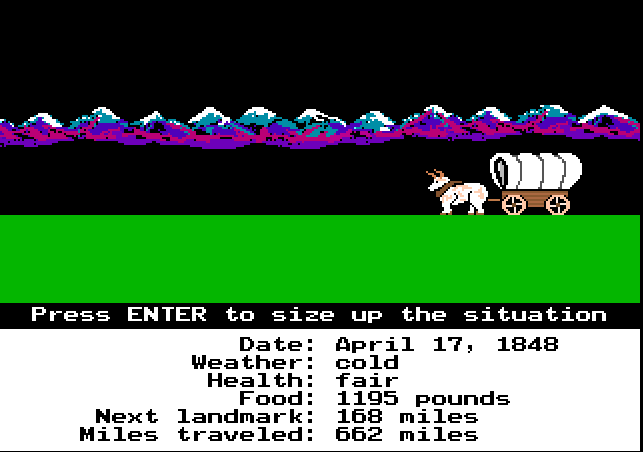
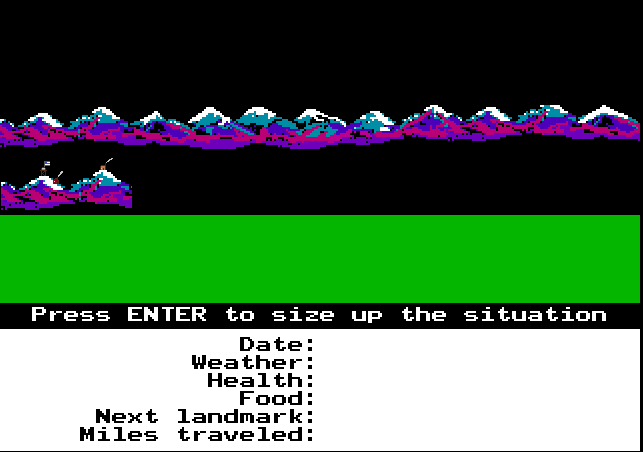
added variarbles for status

diff --git a/p5/OregonTrail.js b/p5/OregonTrail.js
@@ -5,6 +5,12 @@
 let state;
 let food;
 let clothes;
+let wagon;
+let nxtlndmrk;
+let weather;
+let health;
+let totalmiles;
+let date;
 
 
 let music,music1,music2,music3;
@@ -18,7 +24,7 @@ let img4,img5,img6,img7;
 let img8,img9,img10,img11;
 let img12,img13,img14,img15;
 let img16,img17,img18,imgmap;
-let imgwagon;
+let imgwagon,imgwin,imgloose;
 
 let imgop1,imgop2,imgop3,imgop4,imgop5;
 let imgop6,imgop7,imgop8,imgop9,imgop10;
@@ -70,6 +76,8 @@ function preload(){
   img18 = loadImage("assets/Willamette-Valley.PNG");
   imgmap = loadImage("assets/map.png");
   imgwagon = loadImage("assets/wagon.PNG");
+  imgwin = loadImage("assets/youwin.png");
+  imgloose = loadImage("assets/youlose.png");
   ////////////////////////////////////////////////////////////////////////
   /// open world events and locations
   imgop1 = loadImage("assets/openworldfort.PNG");
@@ -93,9 +101,13 @@ function preload(){
 function setup() {
   createCanvas(1600, 780);
   state =1;
-
-  music.setVolume(0.7);
-  music.loop();
+  if(state ===1){
+    music.setVolume(0.7);
+    music.loop();
+  }
+  if(state !==1){
+    music.stop();
+  }
 }
 ///////////////////////////////////////////
 
@@ -103,6 +115,12 @@ function setup() {
 ///////////////////////////////////////////////
 function draw() {
   stateis();
+  nxtlndmrk = 125;
+  health =100;
+  food =2000;
+  totalmiles=4;
+  weather=5;
+  date=text(0,10,1834);
 }
 ///////////////////////////////////////////////
 
@@ -122,7 +140,7 @@ function mainmenu(){
   fill(0);
   textStyle(ITALIC);
   textSize(20);
-  text("Travle The Trail",1220, 715);
+  text("Travel The Trail",1220, 715);
 /////////////////////////////////////////////////////////
 }
 ////////////////////////////////////////////////////////
@@ -135,6 +153,37 @@ function gametime(){
 
 function trailtoriv(){
   image(imgop5,0,0,windowWidth,windowHeight);
+
+  fill(0);
+  rect(850, 690, 126, 20);
+  fill(255);
+  text(nxtlndmrk, 893, 690, 276, 20);
+
+  fill(0);
+  rect(850, 660, 126, 20);
+  fill(255);
+  text(food, 893, 660, 276, 20);
+
+  fill(0);
+  rect(850, 632, 126, 20);
+  fill(255);
+  text(health, 893, 632, 276, 20);
+
+  fill(0);
+  rect(850, 720, 126, 20);
+  fill(255);
+  text(totalmiles, 893, 720, 276, 20);
+
+  fill(0);
+  rect(850, 600, 126, 20);
+  fill(255);
+  text(weather, 893, 600, 276, 20);
+
+  fill(0);
+  rect(850, 570, 126, 20);
+  fill(255);
+  text(date, 893, 570, 276, 20);
+
 }
 function river1(){
   image(img2,0,0,windowWidth,windowHeight);
@@ -163,7 +212,7 @@ function chimtofrtlarm(){
 function fortlarm(){
   image(img6,0,0,windowWidth,windowHeight);
 }
-function fortlarmtoindirock(){
+function fortlarmtoindiroc(){
   image(imgop7,0,0,windowWidth,windowHeight);
 }
 function indirock(){
@@ -206,25 +255,25 @@ function ftboise(){
   image(img13,0,0,windowWidth,windowHeight);
 }
 function ftboisetobluemnt(){
-  image;
+  image(imgop3,0,0,windowWidth,windowHeight);
 }
 function bluemnt(){
   image(img14,0,0,windowWidth,windowHeight);
 }
 function bluemnttodales(){
-  image;
+  image(imgop1,0,0,windowWidth,windowHeight);
 }
 function thedalles(){
   image(img15,0,0,windowWidth,windowHeight);
 }
 function dallestowillamentvly(){
-  image;
+  image(imgop3,0,0,windowWidth,windowHeight);
 }
 function Willamettevalley(){
   image(img16,0,0,windowWidth,windowHeight);
 }
 function youwin(){
-  image;
+  image(img);
 }
 function youlose(){
   image;
@@ -241,9 +290,11 @@ function youlose(){
 
 function mousePressed() {
   //console.log(mouseX, mouseY);
-  if (mouseX <= 1157+276 && mouseX >= 1157 && mouseY <= 695+27 && mouseY >= 695){
-    state = 2;
-    music.stop;
+  if (state ===1){
+    if (mouseX <= 1157+276 && mouseX >= 1157 && mouseY <= 695+27 && mouseY >= 695){
+      state = 2;
+      music.stop;
+    }
   }
 }
 ///////////////////////////////////////////////////////
@@ -287,8 +338,68 @@ function stateis(){
   if (state === 7){
     fortlarm();
   }
-  if (state === 7){
-    fortlarmtoindirock();
+  if (state === 7.5){
+    fortlarmtoindiroc();
+  }
+  if (state === 8){
+    indirock();
+  }
+  if (state === 8.5){
+    indirocktosouthpass();
+  }
+  if (state === 9){
+    southpass();
+  }
+  if (state === 9.5){
+    southpasstogrnriver();
+  }
+  if (state === 10){
+    greenriver();
+  }
+  if (state === 10.5){
+    grnrivertosodasprings();
+  }
+  if (state === 11){
+    sodasprings();
+  }
+  if (state === 11.5){
+    sodaspringstofthall();
+  }
+  if (state === 12){
+    fthall();
+  }
+  if (state === 12.5){
+    fthalltosnakeriver();
+  }
+  if (state === 13){
+    snakeriver();
+  }
+  if (state === 13.5){
+    snakerivertoftboise();
+  }
+  if (state === 14){
+    ftboise();
+  }
+  if (state === 14.5){
+    ftboisetobluemnt();
+  }
+  if (state === 15){
+    bluemnt();
+  }
+  if (state === 15.5){
+    bluemnttodales();
+  }
+  if (state === 16){
+    thedalles();
+  }
+  if (state === 16.5){
+    dallestowillamentvly();
+  }
+  if (state === 17){
+    Willamettevalley();
+  }
+  if (state === 17.5){
+    youwin();
   }
 }
 //////////////////////////////////////////////////
@@ -362,6 +473,16 @@ function keyPressed(){
   if (state === 15){
     if (key === " "){
       state =15.5;
+    }
+  }
+  if (state === 16){
+    if (key === " "){
+      state =16.5;
+    }
+  }
+  if (state === 17){
+    if (key === " "){
+      state =17.5;
     }
   }
 }
